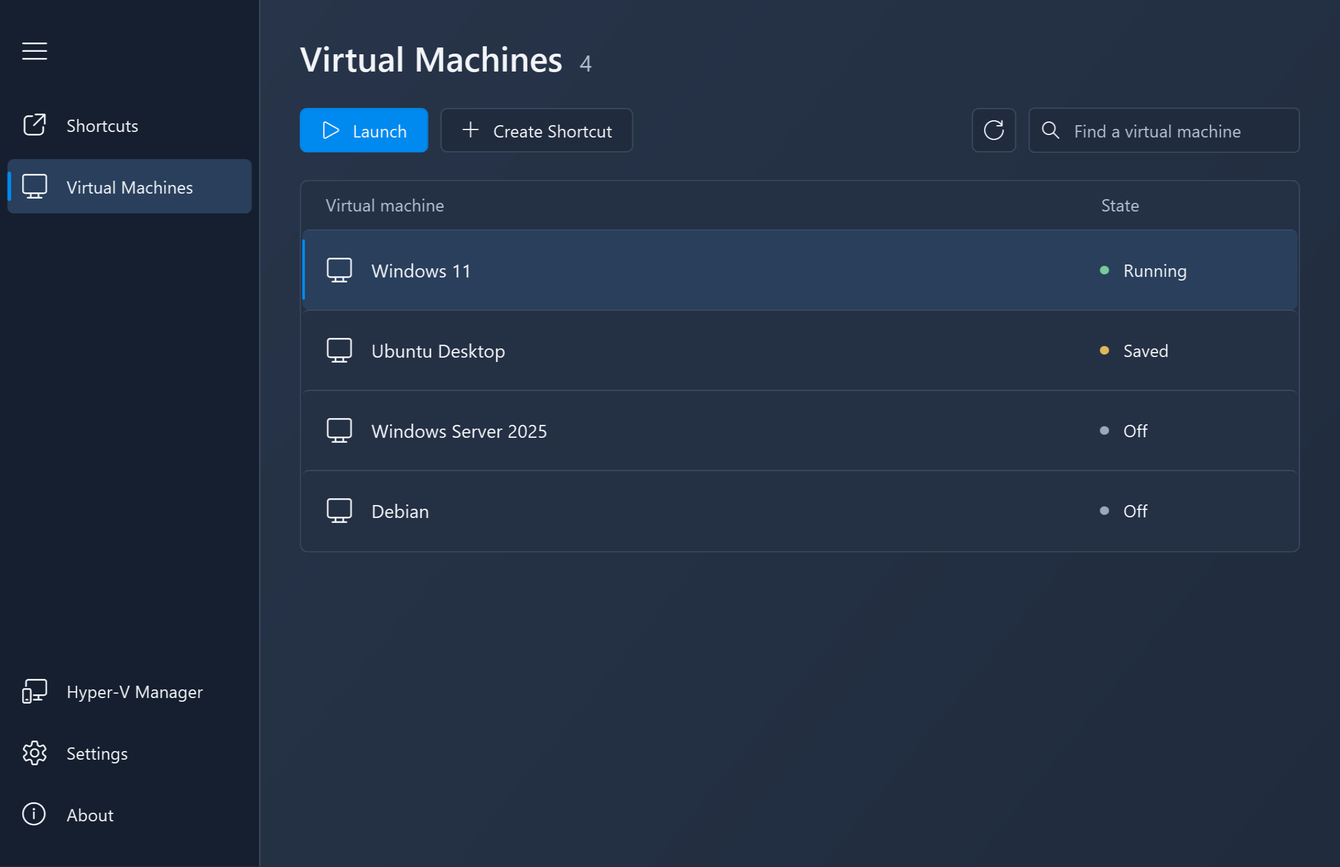
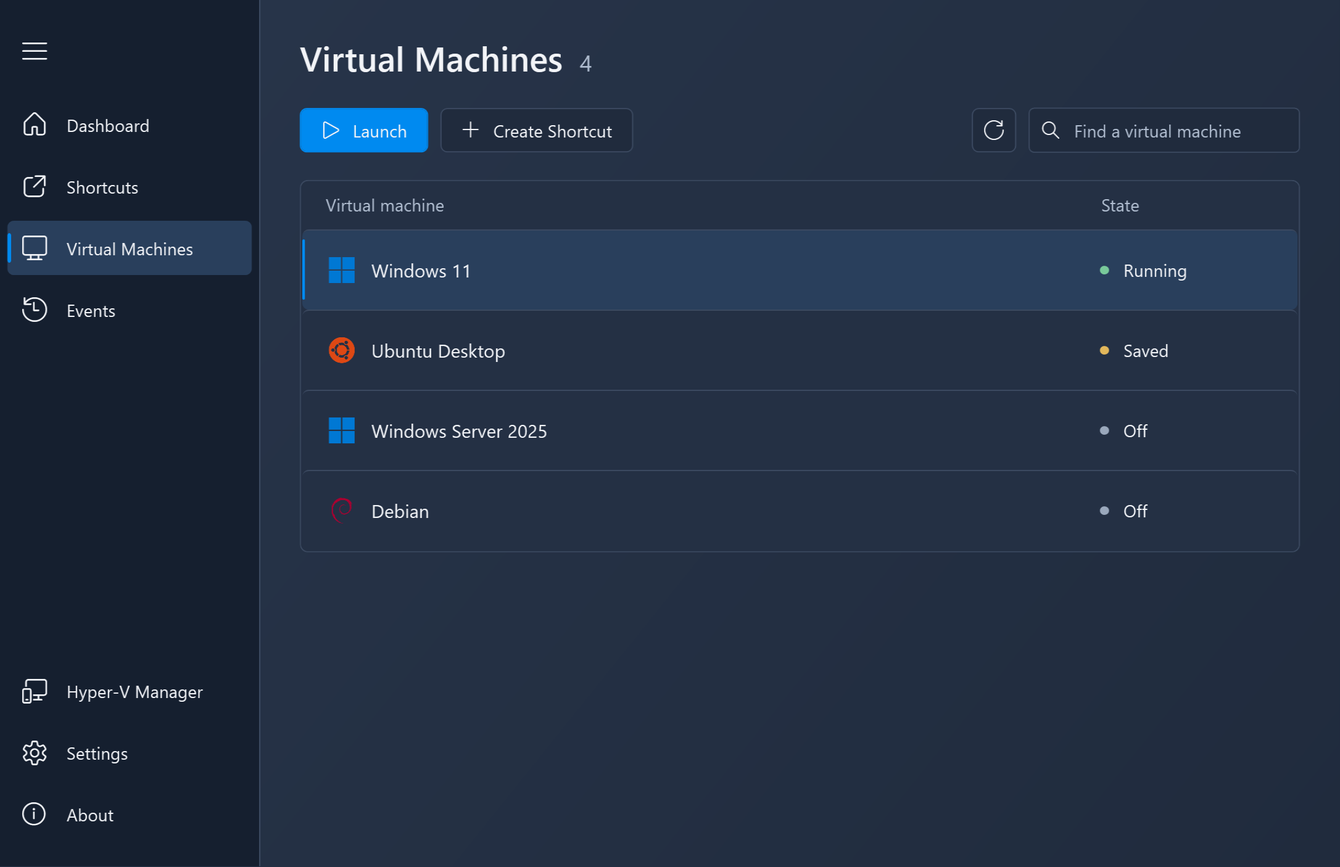
Update 1.0.3 website guide and screenshots

diff --git a/guide.html b/guide.html
@@ -13,7 +13,7 @@
     </script>
     <meta name="viewport" content="width=device-width, initial-scale=1">
     <title>Hyper-V Launcher Guide — Create &amp; Manage VM Shortcuts</title>
-    <meta name="description" content="Learn how to create Hyper-V virtual machine shortcuts, launch VMs from the system tray, and configure automatic actions and shortcut detection.">
+    <meta name="description" content="Set up Hyper-V Launcher 1.0.3: dashboard, VM shortcuts, remote connections, activity history, automatic actions, and support archives.">
     <meta name="theme-color" content="#ffffff">
     <link rel="stylesheet" href="styles.css">
     <link rel="icon" href="favicon.ico" type="image/x-icon">
@@ -24,15 +24,15 @@
     <meta property="og:locale" content="en_US">
     <meta property="og:url" content="https://hypervlauncher.andrezammit.com/guide.html">
     <meta property="og:title" content="Hyper-V Launcher Guide — Create &amp; Manage VM Shortcuts">
-    <meta property="og:description" content="Learn how to create Hyper-V virtual machine shortcuts, launch VMs from the system tray, and configure automatic actions and shortcut detection.">
+    <meta property="og:description" content="Set up Hyper-V Launcher 1.0.3: dashboard, VM shortcuts, remote connections, activity history, automatic actions, and support archives.">
     <meta property="og:image" content="https://hypervlauncher.andrezammit.com/Images/VirtualMachines.png">
     <meta property="og:image:type" content="image/png">
-    <meta property="og:image:width" content="1437">
-    <meta property="og:image:height" content="921">
+    <meta property="og:image:width" content="2172">
+    <meta property="og:image:height" content="1406">
     <meta property="og:image:alt" content="Hyper-V Launcher Virtual Machines page for creating shortcuts">
     <meta name="twitter:card" content="summary_large_image">
     <meta name="twitter:title" content="Hyper-V Launcher Guide — Create &amp; Manage VM Shortcuts">
-    <meta name="twitter:description" content="Learn how to create Hyper-V virtual machine shortcuts, launch VMs from the system tray, and configure automatic actions and shortcut detection.">
+    <meta name="twitter:description" content="Set up Hyper-V Launcher 1.0.3: dashboard, VM shortcuts, remote connections, activity history, automatic actions, and support archives.">
     <meta name="twitter:image" content="https://hypervlauncher.andrezammit.com/Images/VirtualMachines.png">
     <meta name="twitter:image:alt" content="Hyper-V Launcher Virtual Machines page for creating shortcuts">
     <script type="application/ld+json">
@@ -44,7 +44,7 @@
             "@id": "https://hypervlauncher.andrezammit.com/guide.html#webpage",
             "url": "https://hypervlauncher.andrezammit.com/guide.html",
             "name": "Hyper-V Launcher Guide — Create & Manage VM Shortcuts",
-            "description": "Learn how to create Hyper-V virtual machine shortcuts, launch VMs from the system tray, and configure automatic actions and shortcut detection.",
+            "description": "Set up Hyper-V Launcher 1.0.3: dashboard, VM shortcuts, remote connections, activity history, automatic actions, and support archives.",
             "inLanguage": "en",
             "isPartOf": {
                 "@id": "https://hypervlauncher.andrezammit.com/#website"
@@ -77,25 +77,58 @@
 <main id="main">
     <article class="wrap guide" id="guide">
         <h1>Hyper-V Launcher guide</h1>
-        <p class="guide-intro">Create shortcuts for local Hyper-V virtual machines, launch them from the system tray, and choose what happens when you close a VM connection.</p>
+        <p class="guide-intro">Use Hyper-V Launcher 1.0.3 to manage local VMs, launch shortcuts, configure remote connections, and review activity.</p>
         <nav class="guide-contents" aria-label="On this page">
             <h2>On this page</h2>
             <ul>
+                <li><a href="#version-1-0-3">What’s new in 1.0.3</a></li>
+                <li><a href="#dashboard">Use the dashboard and VM lists</a></li>
                 <li><a href="#requirements">Requirements and installation</a></li>
                 <li><a href="#desktop-shortcuts">Create desktop and Start Menu shortcuts</a></li>
                 <li><a href="#system-tray">Launch a VM from the system tray</a></li>
                 <li><a href="#close-actions">Pause or shut down a VM when its window closes</a></li>
                 <li><a href="#remote-connections">Start a VM from a remote connection</a></li>
                 <li><a href="#automatic-shortcuts">Automatically manage VM shortcuts</a></li>
+                <li><a href="#events">Review activity and event details</a></li>
+                <li><a href="#support">Save a support archive</a></li>
                 <li><a href="#troubleshooting">Troubleshooting</a></li>
             </ul>
         </nav>
+
+        <section class="guide-section" id="version-1-0-3">
+            <h2>What’s new in 1.0.3</h2>
+            <p>This release brings a refreshed Console, a dashboard, recorded activity, and service-backed VM management.</p>
+            <ul>
+                <li><strong>Dashboard:</strong> launch configured shortcuts and running VMs, see VM state totals and active RDP proxy connections, and check Hyper-V and Launcher Monitor availability.</li>
+                <li><strong>Refreshed Console:</strong> a dark interface, collapsible navigation, list search and refresh controls, current VM states, context menus, keyboard and double-click launching, and clearer loading and empty states. Launch all selected shortcuts or VMs while preserving multiple selection in context menus.</li>
+                <li><strong>Guest OS details and icons:</strong> identify VMs by their reported operating system. Shortcuts save their icon at creation; shortcuts without saved icon metadata use a default icon. The compact tray menu and VM notifications also show VM icons.</li>
+                <li><strong>Monitor service:</strong> Console and LaunchPad can run without elevation while Monitor handles privileged VM and shortcut operations. Improved service access for standard users and per-VM power-action coordination make management more reliable.</li>
+                <li><strong>Remote connections and Events:</strong> Monitor handles starting VMs and forwarding connections to the guest, while the Events page records VM, shortcut, and connection activity with filters and details.</li>
+                <li><strong>Shortcut setup:</strong> saved creation defaults, shortcut name and port validation, clearer port guidance, and feedback when saving settings fails.</li>
+                <li><strong>Help and diagnostics:</strong> contextual guide links, a Hyper-V Manager navigation shortcut, and an About page with the app version, contact links, and support archive export. Logs now include application version information.</li>
+                <li><strong>Reliability:</strong> a responsive tray menu while settings load, preservation of existing tray entries if a refresh fails, clearer distinction between missing Hyper-V and a stopped service, less repetitive unavailable-service logging, and installer process-shutdown and packaging fixes.</li>
+            </ul>
+        </section>
+
+        <section class="guide-section" id="dashboard">
+            <h2>Use the dashboard and VM lists</h2>
+            <p>Open <strong>Dashboard</strong> for configured shortcuts, running VMs, VM state totals, active RDP proxy connections, and service availability. Launch shortcuts and connect to running VMs from this page.</p>
+            <div class="guide-row">
+                <div>
+                    <p>The <strong>Shortcuts</strong> and <strong>Virtual Machines</strong> pages show current VM states and guest OS icons. Use the search box to find a machine and the refresh control to reload the list.</p>
+                    <p>Select several rows with Ctrl or Shift, then choose <strong>Launch</strong> to launch all selected entries. Right-click a selected row to use its context menu without losing the selection. You can also double-click a row to launch it.</p>
+                    <p>Guest OS information depends on what the VM reports to Hyper-V. A shortcut keeps the icon saved when it was created; older shortcuts without saved icon metadata show the default icon.</p>
+                </div>
+                <a class="screenshot" href="Images/Dashboard.png" aria-label="View full-size Dashboard screenshot"><img src="Images/Dashboard.png" width="2172" height="1406" loading="lazy" alt="Dashboard showing VM overview, shortcuts, running VMs, connections, and service status"></a>
+            </div>
+        </section>
 
         <section class="guide-section" id="requirements">
             <h2>Requirements and installation</h2>
             <p>Hyper-V Launcher runs on Windows x64 and manages virtual machines on your local computer. You need Hyper-V enabled and a VM already created in Hyper-V Manager.</p>
             <p>For a Windows desktop host, Microsoft lists Windows 10 or Windows 11 Pro and Enterprise as editions that support Hyper-V. Windows Home does not include the Hyper-V role. Your hardware must also support virtualization. See <a href="https://learn.microsoft.com/en-us/windows-server/virtualization/hyper-v/host-hardware-requirements">Microsoft’s Hyper-V requirements</a> and <a href="https://learn.microsoft.com/en-us/windows-server/virtualization/hyper-v/get-started/install-hyper-v">instructions for enabling Hyper-V</a>.</p>
             <p><a href="https://github.com/andrezammit/hypervlauncher-site/releases/latest/download/HyperVLauncher.Setup.exe">Download Hyper-V Launcher</a>, run the setup, then open <strong>Hyper-V Launcher Console</strong> from the Start Menu. Use Hyper-V Manager to create and configure your VMs before adding launcher shortcuts.</p>
+            <p>Setup installs <strong>Hyper-V Launcher Service</strong> (Launcher Monitor), which handles privileged VM operations, shortcut changes, automatic detection, and remote connections. Console and LaunchPad can run without elevation; keep the service running for these operations.</p>
         </section>
 
         <section class="guide-section" id="desktop-shortcuts">
@@ -111,9 +144,9 @@
                         <li>Choose what should happen when the VM connection closes, then click <strong>Save</strong>.</li>
                     </ol>
                     <p>Double-click the desktop shortcut or open it from the Start Menu. Hyper-V Launcher starts a stopped or saved VM before opening its connection window.</p>
-                    <p>You can also select a configured shortcut on the <strong>Shortcuts</strong> page and click <strong>Launch</strong>. To change its name or close action later, select it and click <strong>Edit</strong>.</p>
+                    <p>You can also select a configured shortcut on the <strong>Shortcuts</strong> page and click <strong>Launch</strong>. To change its name or close action later, select it and click <strong>Edit</strong>. New shortcuts use your saved creation defaults; the dialog checks the name and remote-connection ports before saving.</p>
                 </div>
-                <a class="screenshot" href="Images/VirtualMachines.png" aria-label="View full-size Virtual Machines screenshot"><img src="Images/VirtualMachines.png" width="1086" height="703" loading="lazy" alt="Virtual Machines page with a selected VM and the Create Shortcut control"></a>
+                <a class="screenshot" href="Images/VirtualMachines.png" aria-label="View full-size Virtual Machines screenshot"><img src="Images/VirtualMachines.png" width="2172" height="1406" loading="lazy" alt="Virtual Machines page with a selected VM and the Create Shortcut control"></a>
             </div>
         </section>
 
@@ -125,7 +158,7 @@
                     <p>If the icon is hidden, check the notification area’s hidden icons menu. Choose <strong>Open Hyper-V Launcher</strong> in the tray menu to manage your shortcuts.</p>
                     <p>In <strong>Settings</strong>, enable <strong>Start on Windows login</strong> to have the tray application start when you sign in. A VM must have a configured shortcut to appear in the tray menu.</p>
                 </div>
-                <a class="screenshot" href="Images/TrayApp.png" aria-label="View full-size system tray screenshot"><img src="Images/TrayApp.png" width="221" height="153" loading="lazy" alt="Hyper-V Launcher tray menu with virtual machine shortcuts and the Open Hyper-V Launcher option"></a>
+                <a class="screenshot" href="Images/TrayApp.png" aria-label="View full-size system tray screenshot"><img src="Images/TrayApp.png" width="440" height="422" loading="lazy" alt="Hyper-V Launcher tray menu with virtual machine shortcuts and the Open Hyper-V Launcher option"></a>
             </div>
         </section>
 
@@ -144,7 +177,7 @@
                     </dl>
                     <p>Click <strong>Save</strong>, then launch the configured shortcut to use the selected action. The action runs when that shortcut’s VM connection window closes. Opening a separate connection directly through Hyper-V Manager does not use the shortcut’s close action.</p>
                 </div>
-                <a class="screenshot" href="Images/CreateShortcut.png" aria-label="View full-size shortcut settings screenshot"><img src="Images/CreateShortcut.png" width="566" height="627" loading="lazy" alt="Shortcut dialog showing the action to perform when the virtual machine connection closes"></a>
+                <a class="screenshot" href="Images/CreateShortcut.png" aria-label="View full-size shortcut settings screenshot"><img src="Images/CreateShortcut.png" width="1132" height="1254" loading="lazy" alt="Shortcut dialog showing the action to perform when the virtual machine connection closes"></a>
             </div>
         </section>
 
@@ -174,12 +207,37 @@
                     </ul>
                     <p>These settings handle VM creation and deletion events. For machines you already have, create shortcuts from the <strong>Virtual Machines</strong> page. Automatic creation and cleanup depend on the installed <strong>Hyper-V Launcher Service</strong>.</p>
                 </div>
-                <a class="screenshot" href="Images/Notifications.png" aria-label="View full-size VM notification screenshot"><img src="Images/Notifications.png" width="506" height="699" loading="lazy" alt="Windows notifications offering to create a shortcut and confirming automatic shortcut creation"></a>
+                <a class="screenshot" href="Images/Settings.png" aria-label="View full-size Settings screenshot"><img src="Images/Settings.png" width="2172" height="1406" loading="lazy" alt="Settings page with automatic shortcut creation, notification, cleanup, and Windows login options"></a>
             </div>
+        </section>
+
+        <section class="guide-section" id="events">
+            <h2>Review activity and event details</h2>
+            <div class="guide-row">
+                <div>
+                    <p>Open <strong>Events</strong> to review recorded shortcut changes, VM connections, VM actions, and RDP proxy activity. Launcher Monitor owns the activity history.</p>
+                    <p>Search events and filter by activity type, outcome, and time range. Select an event to open its details. Use <strong>Refresh</strong> for recent activity or <strong>Load older events</strong> when available to see earlier entries.</p>
+                    <p>Check the recorded outcome and details when investigating a failed or unconfirmed operation.</p>
+                </div>
+                <a class="screenshot" href="Images/Events.png" aria-label="View full-size Events screenshot"><img src="Images/Events.png" width="2172" height="1406" loading="lazy" alt="Events page showing activity history, filters, outcomes, and expanded details"></a>
+            </div>
+        </section>
+
+        <section class="guide-section" id="support">
+            <h2>Save a support archive</h2>
+            <ol>
+                <li>Open <strong>About</strong> to check your installed application version and find the website, guide, and contact links.</li>
+                <li>Choose <strong>Save support archive</strong>, select a destination, and save the <code>.zip</code> file.</li>
+                <li>File Explorer selects the saved archive. Review its contents before sharing it with <a href="mailto:hypervlauncher@andrezammit.com">hypervlauncher@andrezammit.com</a>, along with the steps to reproduce the issue.</li>
+            </ol>
+            <p>The archive includes available user and shared application logs, basic system information (including app version, Windows and runtime versions, architecture, culture, and time zone), and a collection report listing any unavailable or skipped logs. Settings, activity databases, and VM files are not collected.</p>
+            <p>Logs may contain VM names, usernames, file paths, and network addresses. The archive is saved locally; it is not sent automatically. If saving fails, check the destination folder and available disk space, then try again.</p>
         </section>
 
         <section class="guide-section troubleshooting" id="troubleshooting">
             <h2>Troubleshooting Hyper-V Launcher</h2>
+            <h3>Hyper-V or Launcher Monitor is unavailable</h3>
+            <p>Check the dashboard service status. If Hyper-V is not installed, enable it on a supported Windows edition. If it is installed but stopped, check <strong>Hyper-V Virtual Machine Management</strong> in Windows Services. Also check that <strong>Hyper-V Launcher Service</strong> is running, then refresh. These are separate services.</p>
             <h3>My virtual machine is not listed</h3>
             <p>Open Hyper-V Manager and confirm the VM exists on this computer. Hyper-V Launcher lists local VMs, not those on a remote host. Confirm Hyper-V is enabled and that you can access the local VM in Hyper-V Manager, then reopen the launcher to reload the list.</p>
             <h3>The VM is listed, but there is no desktop shortcut</h3>

diff --git a/index.html b/index.html
@@ -13,7 +13,7 @@
     </script>
     <meta name="viewport" content="width=device-width, initial-scale=1">
     <title>Hyper-V Launcher — Desktop Shortcuts &amp; System Tray Access</title>
-    <meta name="description" content="Launch local Hyper-V virtual machines from your desktop, Start Menu, or system tray. Download Hyper-V Launcher for Windows x64.">
+    <meta name="description" content="Launch and manage local Hyper-V virtual machines with a dashboard, desktop shortcuts, system tray access, remote connections, and activity history. Free for Windows x64.">
     <meta name="theme-color" content="#ffffff">
     <link rel="stylesheet" href="styles.css">
     <link rel="icon" href="favicon.ico" type="image/x-icon">
@@ -24,17 +24,17 @@
     <meta property="og:locale" content="en_US">
     <meta property="og:url" content="https://hypervlauncher.andrezammit.com/">
     <meta property="og:title" content="Hyper-V Launcher — Desktop Shortcuts &amp; System Tray Access">
-    <meta property="og:description" content="Launch local Hyper-V virtual machines from your desktop, Start Menu, or system tray. Download Hyper-V Launcher for Windows x64.">
-    <meta property="og:image" content="https://hypervlauncher.andrezammit.com/Images/MainWindow.png">
+    <meta property="og:description" content="Launch and manage local Hyper-V virtual machines with a dashboard, desktop shortcuts, system tray access, remote connections, and activity history. Free for Windows x64.">
+    <meta property="og:image" content="https://hypervlauncher.andrezammit.com/Images/Dashboard.png">
     <meta property="og:image:type" content="image/png">
-    <meta property="og:image:width" content="1437">
-    <meta property="og:image:height" content="921">
-    <meta property="og:image:alt" content="Hyper-V Launcher showing shortcuts for local virtual machines">
+    <meta property="og:image:width" content="2172">
+    <meta property="og:image:height" content="1406">
+    <meta property="og:image:alt" content="Hyper-V Launcher dashboard with shortcuts, running VMs, and service status">
     <meta name="twitter:card" content="summary_large_image">
     <meta name="twitter:title" content="Hyper-V Launcher — Desktop Shortcuts &amp; System Tray Access">
-    <meta name="twitter:description" content="Launch local Hyper-V virtual machines from your desktop, Start Menu, or system tray. Download Hyper-V Launcher for Windows x64.">
-    <meta name="twitter:image" content="https://hypervlauncher.andrezammit.com/Images/MainWindow.png">
-    <meta name="twitter:image:alt" content="Hyper-V Launcher showing shortcuts for local virtual machines">
+    <meta name="twitter:description" content="Launch and manage local Hyper-V virtual machines with a dashboard, desktop shortcuts, system tray access, remote connections, and activity history. Free for Windows x64.">
+    <meta name="twitter:image" content="https://hypervlauncher.andrezammit.com/Images/Dashboard.png">
+    <meta name="twitter:image:alt" content="Hyper-V Launcher dashboard with shortcuts, running VMs, and service status">
     <script type="application/ld+json">
 {
     "@context": "https://schema.org",
@@ -56,7 +56,7 @@
             "@id": "https://hypervlauncher.andrezammit.com/#webpage",
             "url": "https://hypervlauncher.andrezammit.com/",
             "name": "Hyper-V Launcher — Desktop Shortcuts & System Tray Access",
-            "description": "Launch local Hyper-V virtual machines from your desktop, Start Menu, or system tray. Download Hyper-V Launcher for Windows x64.",
+            "description": "Launch and manage local Hyper-V virtual machines with a dashboard, desktop shortcuts, system tray access, remote connections, and activity history. Free for Windows x64.",
             "inLanguage": "en",
             "isPartOf": {
                 "@id": "https://hypervlauncher.andrezammit.com/#website"
@@ -70,12 +70,13 @@
             "@id": "https://hypervlauncher.andrezammit.com/#application",
             "name": "Hyper-V Launcher",
             "url": "https://hypervlauncher.andrezammit.com/",
-            "description": "Launch local Hyper-V virtual machines from your desktop, Start Menu, or system tray. Download Hyper-V Launcher for Windows x64.",
+            "description": "Launch and manage local Hyper-V virtual machines with a dashboard, desktop shortcuts, system tray access, remote connections, and activity history. Free for Windows x64.",
             "applicationCategory": "UtilitiesApplication",
             "operatingSystem": "Windows x64",
             "softwareRequirements": "Hyper-V enabled",
+            "softwareVersion": "1.0.3",
             "downloadUrl": "https://github.com/andrezammit/hypervlauncher-site/releases/latest/download/HyperVLauncher.Setup.exe",
-            "screenshot": "https://hypervlauncher.andrezammit.com/Images/MainWindow.png",
+            "screenshot": "https://hypervlauncher.andrezammit.com/Images/Dashboard.png",
             "author": {
                 "@type": "Person",
                 "name": "Andre Zammit",
@@ -85,7 +86,12 @@
                 "Desktop and Start Menu shortcuts for Hyper-V virtual machines",
                 "Launch virtual machines from the system tray",
                 "Pause or shut down a virtual machine after closing its window",
-                "Automatic shortcut creation and cleanup"
+                "Automatic shortcut creation and cleanup",
+                "Dashboard with VM states, running VMs, and RDP proxy connections",
+                "Launch multiple selected shortcuts or virtual machines",
+                "Guest operating system icons for VMs and shortcuts",
+                "Start VMs from incoming remote connections",
+                "Searchable activity history and support archive export"
             ]
         }
     ]
@@ -107,13 +113,13 @@
     <main id="main">
         <section class="hero wrap" aria-labelledby="hero-title">
             <h1 id="hero-title">Your virtual machines.<br>Ready when you are.</h1>
-            <p class="intro">Launch your local Hyper-V machines from your desktop, Start Menu, or system tray.</p>
+            <p class="intro">Launch and manage your local Hyper-V machines from one dashboard, your desktop, Start Menu, or system tray.</p>
             <a class="button" href="https://github.com/andrezammit/hypervlauncher-site/releases/latest/download/HyperVLauncher.Setup.exe">Download</a>
-            <p class="requirements">Windows x64 · Hyper-V required</p>
+            <p class="requirements">Version 1.0.3 · Windows x64 · Hyper-V required<br><a href="guide.html#version-1-0-3">What’s new in 1.0.3</a></p>
         </section>
         <div class="product-stage wrap">
-            <a href="Images/MainWindow.png" aria-label="View full-size Hyper-V Launcher screenshot">
-                <img src="Images/MainWindow.png" width="1086" height="703" fetchpriority="high" alt="Hyper-V Launcher Shortcuts page listing Windows and Ubuntu virtual machines">
+            <a href="Images/Dashboard.png" aria-label="View full-size Hyper-V Launcher screenshot">
+                <img src="Images/Dashboard.png" width="2172" height="1406" fetchpriority="high" alt="Hyper-V Launcher dashboard with shortcuts, running VMs, VM state totals, RDP connections, and service status">
             </a>
         </div>
         <section class="features wrap" id="features" aria-label="Features">
@@ -127,8 +133,33 @@
             </article>
             <article>
                 <h2>Choose what happens next</h2>
-                <p>Automatically pause or shut down your machine after closing its VM window.</p>
+                <p>Leave a VM running, save its state, or request a shutdown when its connection window closes.</p>
             </article>
+        </section>
+        <section class="wrap guide-section release-overview" aria-labelledby="dashboard-title">
+            <h2 id="dashboard-title">Your VMs at a glance</h2>
+            <p>The dashboard brings configured shortcuts, running VMs, VM state totals, active RDP proxy connections, and Hyper-V and Monitor availability together. Search your lists, check current states, and launch multiple selected machines.</p>
+            <div class="extras">
+                <article>
+                    <h3>Start a VM by connecting to it</h3>
+                    <p>Connect to a configured port on the host. Launcher Monitor starts the VM and forwards traffic to the guest. <a href="guide.html#remote-connections">Set up remote connections</a>.</p>
+                </article>
+                <article>
+                    <h3>Keep shortcuts in sync</h3>
+                    <p>Automatically create shortcuts for newly detected VMs, choose to be prompted, and clean up shortcuts when a VM is deleted. <a href="guide.html#automatic-shortcuts">Choose your settings</a>.</p>
+                </article>
+                <article>
+                    <h3>Follow recent activity</h3>
+                    <p>Search and filter VM, shortcut, and connection events, then open an event for details. <a href="guide.html#events">Explore the Events page</a>.</p>
+                    <a class="screenshot" href="Images/Events.png" aria-label="View full-size Events screenshot"><img src="Images/Events.png" width="2172" height="1406" loading="lazy" alt="Events page with activity filters, outcomes, and event details"></a>
+                </article>
+                <article>
+                    <h3>Recognize your machines</h3>
+                    <p>Guest OS details and icons make VMs easier to identify. Shortcuts keep the icon saved when they were created, and the compact tray menu keeps them close at hand.</p>
+                    <a class="screenshot" href="Images/TrayApp.png" aria-label="View full-size tray menu screenshot"><img src="Images/TrayApp.png" width="440" height="422" loading="lazy" alt="Compact Hyper-V Launcher tray menu with saved guest OS icons"></a>
+                </article>
+            </div>
+            <p class="requirements">Need help? <a href="guide.html#support">Save a support archive</a> from the About page.</p>
         </section>
         <section class="download" id="download" aria-labelledby="download-title">
             <div class="wrap">

diff --git a/styles.css b/styles.css
@@ -170,3 +170,8 @@ img { display: block; max-width: 100%; height: auto; }
     .guide-contents ul { columns: 1; }
     .guide-section { margin-top: 32px; padding-top: 28px; }
 }
+
+/* Current release feature overview. */
+.release-overview { margin-bottom: 64px; }
+.release-overview h2 { font-size: 27px; line-height: 1.3; letter-spacing: -.6px; margin: 0 0 18px; }
+.release-overview h3 { font-size: 20px; line-height: 1.4; margin: 0 0 12px; }

diff --git a/README.md b/README.md
@@ -6,15 +6,27 @@ Hyper-V Launcher makes your local Hyper-V virtual machines easier to access. Cre
 
 [Download](https://github.com/andrezammit/hypervlauncher-site/releases/latest/download/HyperVLauncher.Setup.exe) · [Visit the website](https://hypervlauncher.andrezammit.com/) · [Read the guide](https://hypervlauncher.andrezammit.com/guide.html)
 
-Windows x64 · Hyper-V required
+Version 1.0.3 · Windows x64 · Hyper-V required
 
-![Hyper-V Launcher showing shortcuts for Windows and Ubuntu virtual machines](Images/MainWindow.png)
+[What’s new in 1.0.3](https://hypervlauncher.andrezammit.com/guide.html#version-1-0-3)
+
+## Dashboard and VM management
+
+Launch configured shortcuts and running VMs, check VM state totals and active RDP proxy connections, and see Hyper-V and Launcher Monitor availability from the dashboard.
+
+![Hyper-V Launcher dashboard](Images/Dashboard.png)
+
+The refreshed Console includes list search, current VM states, guest OS details and icons, context menus, and multiple-selection launching. Select rows with Ctrl or Shift and choose **Launch**. Shortcuts save their guest OS icon at creation; older shortcuts without saved icon metadata use the default icon.
+
+Console and LaunchPad can run without elevation while the installed Monitor service handles privileged operations. Version 1.0.3 also improves standard-user service access, tray responsiveness, logging, and installer reliability.
 
 ## Shortcuts where you need them
 
 Give each VM a recognizable shortcut on your desktop, in the Start Menu, or both. Launch it directly, or use the launcher's Shortcuts page to open and manage your configured machines.
 
 ![Virtual Machines page with the Create Shortcut action](Images/VirtualMachines.png)
+
+![Shortcuts page](Images/MainWindow.png)
 
 ## Launch from the system tray
 
@@ -41,6 +53,14 @@ The shortcut's close action can also run after remote connections disconnect. Se
 ## Keep your shortcuts in sync
 
 In **Settings**, enable automatic shortcut creation for newly detected VMs, or choose to be prompted first. You can also enable cleanup to remove associated shortcuts when a VM is deleted. Settings are saved as you change the checkboxes, and automatic creation and cleanup require **Hyper-V Launcher Service** to be running. For existing VMs, create shortcuts from the **Virtual Machines** page.
+
+## Activity and support
+
+Use **Events** to search and filter VM, shortcut, and connection activity by type, outcome, and time range. Select an event for details.
+
+![Events page](Images/Events.png)
+
+In **About**, check the installed version or choose **Save support archive** to save available logs and basic system information as a local ZIP. Logs may contain names, paths, and network addresses, so review the archive before sharing. It does not collect settings, activity databases, or VM files, and is not sent automatically. See the [support guide](https://hypervlauncher.andrezammit.com/guide.html#support).
 
 ## Get started
 

diff --git a/index.md b/index.md
@@ -7,9 +7,17 @@ Hyper-V Launcher
 
 Hyper-V Launcher is an application which makes it easier to access and manage your local Hyper-V Virtual Machines.
 
+Version **1.0.3** · [Website](https://hypervlauncher.andrezammit.com/) · [What’s new and user guide](https://hypervlauncher.andrezammit.com/guide.html#version-1-0-3)
+
 Main Features
 -------------
 
+* Dashboard with shortcuts, running VMs, state totals, RDP proxy connections, and service status
+* Search VM lists, view guest OS details and icons, and launch multiple selected entries
+* Recorded VM, shortcut, and connection activity with search, filters, and event details
+* Save a local support archive with logs and basic system information from About
+* Monitor service handles privileged operations while Console and LaunchPad run without elevation
+* Start a VM from an incoming connection to a configured host port
 * Create Desktop shortcuts for Virtual Machines
 * Create Start Menu shortcuts for Virtual Machines
 * Launch Virtual Machines from the System Tray
@@ -17,7 +25,7 @@ Main Features
 * Automatically create a shortcut when a Virtual Machine is created in Hyper-V
 * Shortcuts are automatically cleaned up if a Virtual Machine is deleted
 
-![Main Window](Images/MainWindow.png)
+![Dashboard](Images/Dashboard.png)
 
 How to Install and Run Hyper-V Launcher
 ---------------------------------------
@@ -60,7 +68,7 @@ If enabled through the Settings page, Hyper-V Launcher may detect any Virtual Ma
 
 When a new Virtual Machine is detected, a Windows notification is presented either allowing you to create a shortcut or notifying you that a shortcut was already created.
 
-When a Virtual Machine is deleted, Hyper-V Launcher automatically cleans up all its configured shortcuts.
+When automatic cleanup is enabled, Hyper-V Launcher removes associated shortcuts when a Virtual Machine is deleted. Automatic creation and cleanup require Hyper-V Launcher Service to be running.
 
 License
 -------
